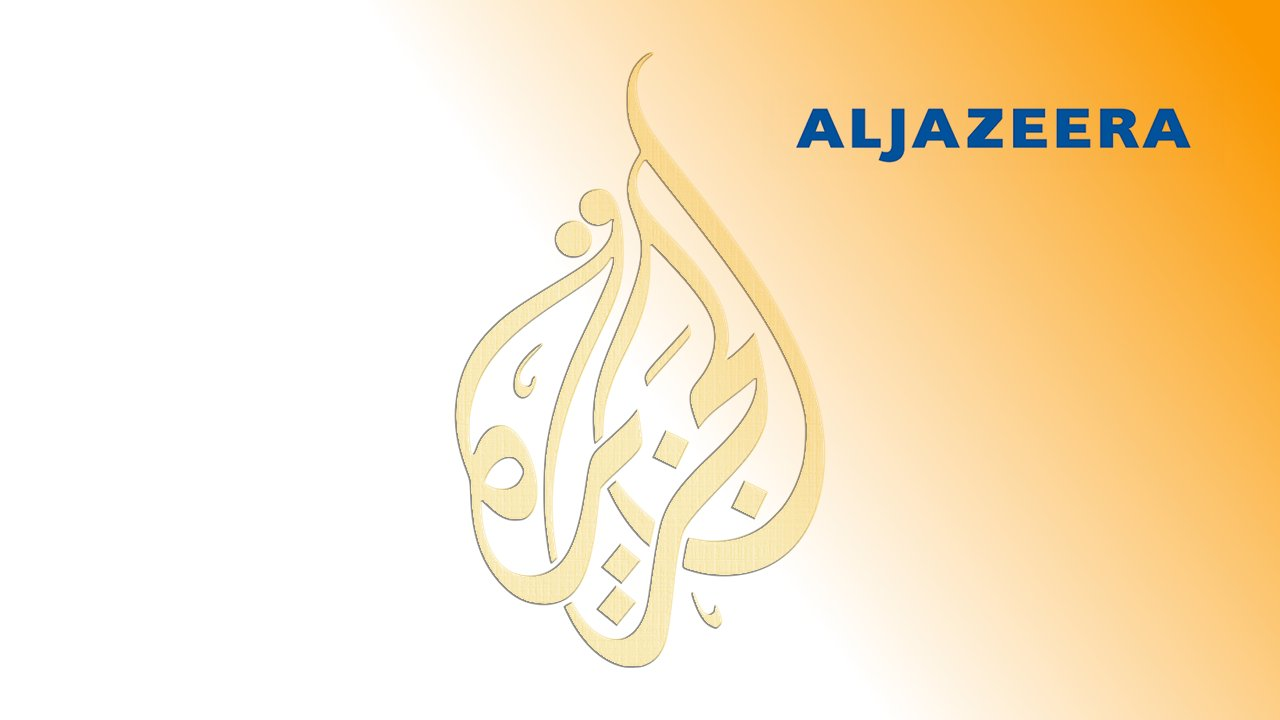
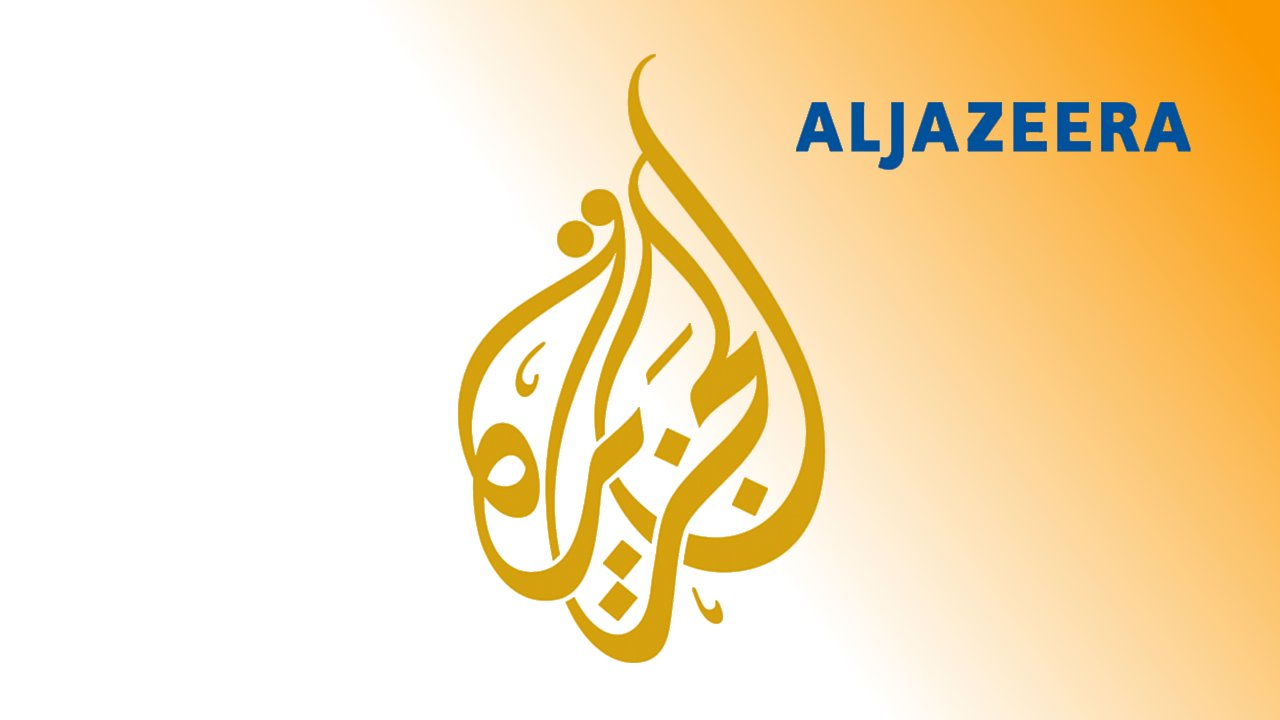
Update Live stream address - updated art

Changed region(s): [[0.3438, 0.0917, 0.6562, 0.9472], [0.625, 0.1222, 0.9375, 0.2444], [0.5, 0.0611, 0.5312, 0.0917]]

diff --git a/Contents/Code/__init__.py b/Contents/Code/__init__.py
@@ -46,7 +46,7 @@ def Start():
 
 def VideoMainMenu():
   dir = MediaContainer(viewGroup="List")
-  dir.Append(RTMPVideoItem('rtmp://aljazeeraflashlivefs.fplive.net/aljazeeraflashlive-live', clip='aljazeera_en_veryhigh', live=True, width=680, title="Live"))
+  dir.Append(RTMPVideoItem('rtmp://aljazeeraflashlivefs.fplive.net/aljazeeraflashlive-live', clip='aljazeera_english_1', live=True, title="Live"))
   dir.Append(Function(DirectoryItem(NewsMenu, title=L('News and Clips'))))
   dir.Append(Function(DirectoryItem(ProgMenu, title=L('Programmes'))))
   dir.Append(Function(DirectoryItem(ParseFeed, title="In Arabic"), url=ARABIC_FEED))
